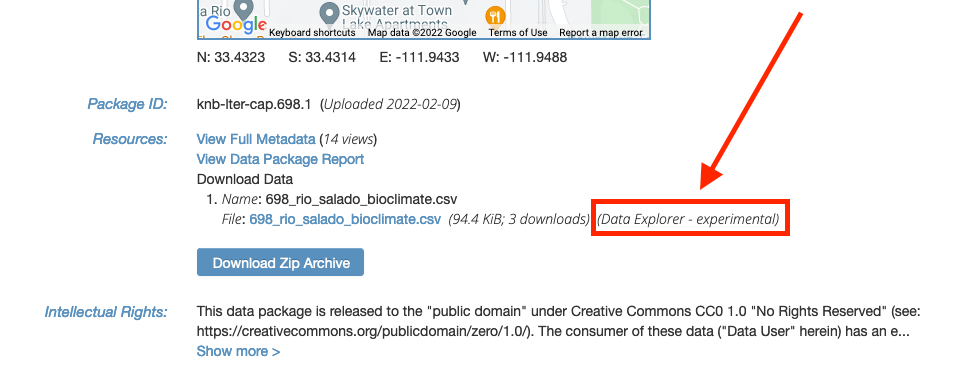
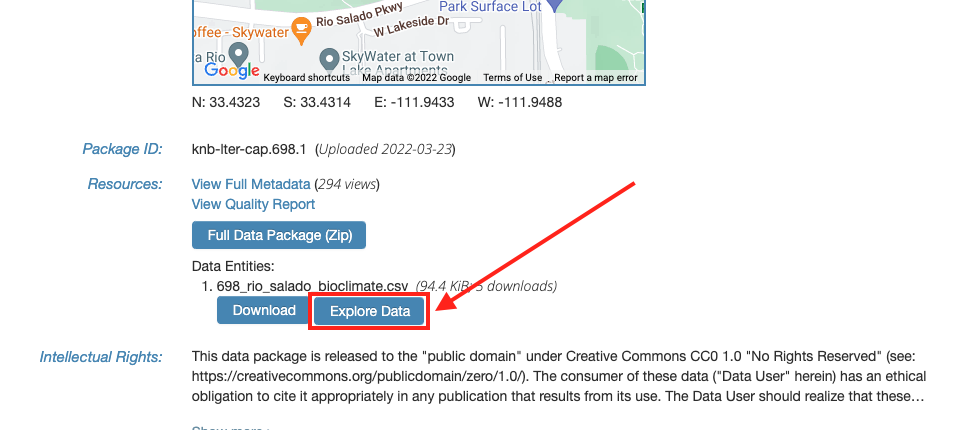
Build web-x

diff --git a/templates/resources/data-exploration.html b/templates/resources/data-exploration.html
@@ -3,24 +3,7 @@
 <div class="container">
 <aside class="sidebar-aside"><div class="bd-toc mt-4 mb-5 my-md-0 ps-xl-3 mb-lg-5 text-muted sticky-top" style="padding-top: 60; padding-right: 15; padding-left: 0;">
 <a class="d-block h6 my-2 pb-2 text-muted" href="#"><span class="fs-5 fw-semibold">Data Exploration</span></a><ul class="btn-toggle-nav">
-<li><a class="link-dark rounded text-muted" href="#data-explorer-dex">Data eXplorer (DeX)</a><ul class="fw-normal">
-<li><a class="link-dark rounded text-muted" href="#profile">Profile</a><ul class="fw-normal">
-<li><a class="link-dark rounded text-muted" href="#overview">Overview</a></li>
-<li><a class="link-dark rounded text-muted" href="#sample">Sample</a></li>
-<li><a class="link-dark rounded text-muted" href="#variables">Variables</a></li>
-</ul>
-</li>
-<li><a class="link-dark rounded text-muted" href="#subset">Subset</a><ul class="fw-normal">
-<li><a class="link-dark rounded text-muted" href="#query">Query</a></li>
-<li><a class="link-dark rounded text-muted" href="#time-period">Time period</a></li>
-<li><a class="link-dark rounded text-muted" href="#row-index">Row index</a></li>
-<li><a class="link-dark rounded text-muted" href="#category">Category</a></li>
-</ul>
-</li>
-<li><a class="link-dark rounded text-muted" href="#plot">Plot</a></li>
-<li><a class="link-dark rounded text-muted" href="#eml">EML</a></li>
-</ul>
-</li>
+<li><a class="link-dark rounded text-muted" href="#data-explorer-dex">Data eXplorer (DeX)</a></li>
 <li><a class="link-dark rounded text-muted" href="#data-download-scripts">Data download scripts</a></li>
 <li><a class="link-dark rounded text-muted" href="#datapie">datapie</a></li>
 </ul>
@@ -30,47 +13,17 @@
 <p>While data package metadata, such as the <a href="/resources/data-package-pages#data-entities">Data Entities</a> section in the full metadata page, provide concise explanations of data attributes, summary and visualization tools can provide a quick and easy interactive view into the actual data values. EDI offers three options for data exploration: Data eXplorer, Data Download Scripts, and datapie.</p>
 
 <h2 id="data-explorer-dex">Data eXplorer (DeX)</h2>
-<p>The EDI <a href="http://dex.edirepository.org" rel="noopener noreferrer" target="_blank">Data Explorer (DeX)</a> is a web browser application offering summary information, subsetting, and plotting features for data packages containing tabular data files. DeX is a great tool for making a preliminary assessment about fitness for use. Click the <strong>Data Explorer</strong> link next to a data object from the <strong>Resources</strong> section of a data package landing page (currently only available in the <a href="/resources/repository-environments#staging">staging environment</a> of the Data Portal).</p>
+<p>The EDI <a href="http://dex.edirepository.org" rel="noopener noreferrer" target="_blank">Data Explorer (DeX)</a> is a web browser application offering summary information, subsetting, and plotting features for data packages containing tabular data files. DeX is a great tool for making a preliminary assessment about fitness for use. Click the <strong>Data Explorer</strong> link next to a data object from the <strong>Resources</strong> section of a data package landing page.</p>
 <p><img class="screen-shot" src="/static/images/dex-in-portal.png" width="95%"/> </p>
 <p>Alternatively, open a table from a data package in DeX by providing the Data Entity URL (currently limited to tabular data). </p>
 <blockquote>
 <p>In order to provide a standard of efficiency while working with limited computing power, DeX currently has a size limit of 50 million cells. Tables with more than 50 million cells will be truncated by row. For example, a table with 10 columns and 5,000,010 rows will only import the first 5,000,000 rows, leaving off the last 10 rows. The DeX profile, as well as any subsets or plots, will be generated from the truncated table and will not necessarily be representative of the original table.</p>
 </blockquote>
-<h3 id="profile">Profile</h3>
-<p>The <strong>Profile</strong> tab provides data table overview information, a sample of the first and last rows in the table, and summary information for every variable in the table.</p>
-<h4 id="overview">Overview</h4>
-<p>A breakdown of dataset statistics (size, missing value and duplicate row counts, etc.) and variable types (number of datetime, numerical, unique, and other variable types). This section also includes notes for individual variables and information about the profile report.</p>
-<h4 id="sample">Sample</h4>
-<p>This section displays the first and last ten rows of the data table, a row index, and column names.</p>
-<h4 id="variables">Variables</h4>
-<p>For every variable in the table, this section displays a miniature summary page complete with counts of missing and duplicate rows, minimum and maximum values, and a frequency plot for the variable.</p>
-<h3 id="subset">Subset</h3>
-<p>The Subset tab allows users to filter and download data by a query, time period, row index, category, or by simply selecting the columns of interest with checkboxes.</p>
-<h4 id="query">Query</h4>
-<p>Users can type a query to filter data. The query syntax is based on the Python Pandas' query method.</p>
-<p>Rows can be filtered by values in character columns using the <code>==</code> and <code>!=</code> operators:</p>
-<p><img class="screen-shot" src="/static/images/numexpr1.png" width="100%"/> </p>
-<p>Rows can also be filtered by values in numeric columns using the <code>&gt;</code>, <code>&lt;</code>, <code>&gt;=</code>, <code>&lt;=</code>, <code>!=</code> and <code>==</code> operators. Use backticks to select columns that have spaces or special characters in their name:</p>
-<p><img class="screen-shot" src="/static/images/numexpr2.png" width="100%"/> </p>
-<p>Rows can be filtered using comparisons between different columns. Multiple logical queries can be combined with the <code>&amp;</code> and <code>|</code> symbols to create advanced logical queries:</p>
-<p><img class="screen-shot" src="/static/images/numexpr6.png" width="100%"/> </p>
-<p>Individual rows can be selected by their index using square brackets:</p>
-<p><img class="screen-shot" src="/static/images/numexpr3.png" width="100%"/> </p>
-<p>Rows where the values from two columns are equal (or not equal) may also be filtered by comparing the two columns: <code>col_1 == col_2</code> or <code>col_1 != col_2</code></p>
-<p><img class="screen-shot" src="/static/images/numexpr7.png" width="100%"/> </p>
-<p>Rows where the values from one column are present (or not present) anywhere in another column may be filtered by using the "in" (or "not in") operator with the two columns: <code>col_1 in col_2</code> or <code>col_1 not in col_2</code></p>
-<p><img class="screen-shot" src="/static/images/numexpr8.png" width="100%"/> </p>
-<p>For details, refer to the Pandas' <a href="https://pandas.pydata.org/docs/user_guide/indexing.html#the-query-method" rel="noopener noreferrer" target="_blank">general guide to querying data</a> and the <a href="https://pandas.pydata.org/docs/reference/api/pandas.DataFrame.query.html" rel="noopener noreferrer" target="_blank">pandas.DataFrame.query</a> API documentation specifically.</p>
-<h4 id="time-period">Time period</h4>
-<p>Users can filter by time period by selecting a <strong>Date</strong> column and entering a start and end date.</p>
-<h4 id="row-index">Row index</h4>
-<p>Users can filter by entering the start and end row index.</p>
-<h4 id="category">Category</h4>
-<p>For tables with categorical data columns declared in the EML, users can filter by specific categories within a given column.</p>
-<h3 id="plot">Plot</h3>
-<p>The <strong>Plot</strong> tab allows users to create scatter plots for the table by selecting an independent and one or more dependent variables.</p>
-<h3 id="eml">EML</h3>
-<p>This tab takes you back to the data package landing page.</p>
+<div class="p-2">
+<div class="w-50 ratio ratio-16x9">
+<iframe allowfullscreen="" src="https://youtube.com/embed/4ZZaLQ72GPc" title="YouTube video"></iframe>
+</div>
+</div>
 <h2 id="data-download-scripts">Data download scripts</h2>
 <p><a href="/resources/accessing-data#data-import-scripts">Data download scripts</a>, available in the <strong>Code Generation</strong> section of the data package landing page, read data directly from the EDI Repository into common programming language workspaces. This service provides full control over data manipulation and statistical exploration.</p>
 <h2 id="datapie">datapie</h2>

diff --git a/templates/resources/information-manager-quickstart.html b/templates/resources/information-manager-quickstart.html
@@ -31,7 +31,7 @@
 <li><strong>Newsletter</strong> - Delivered every other month providing updates to EDI services, community discussions, data stories, and opportunities. <a href="https://environmentaldatainitiative.us14.list-manage.com/subscribe?u=c258a774cbd4d34290410d1ea&amp;id=da346b264c" rel="noopener noreferrer" target="_blank">Subscribe to the newsletter</a>.</li>
 <li><strong>Twitter</strong> - Highlights and engages with posts from the EDI community and beyond. Newsletter articles are rebroadcast here. <a href="https://twitter.com/edigotdata" rel="noopener noreferrer" target="_blank">Visit the EDI Twitter Page</a>.</li>
 <li><strong>Slack</strong> - Great for quick questions and dialogue (<a href="/support/contact-us">contact EDI </a> for an invitation).</li>
-<li><strong>Office hours</strong> - An ongoing Zoom every Wednesday at 3-4pm ET, 2-3pm CT, 1-2pm MT, 12-1pm PT.</li>
+<li><strong>Office hours</strong> - An ongoing <a href="https://uwmadison.zoom.us/j/98834296572?pwd=NHZlTmtkTWg3OXBLSzRrMTJyL3NmUT09" rel="noopener noreferrer" target="_blank">Zoom</a> every Wednesday at 3-4pm ET, 2-3pm CT, 1-2pm MT, 12-1pm PT.</li>
 <li>Email - Contact us via email at <a href="mailto:info@edirepository.org">info@edirepository.org</a></li>
 </ul>
 <h2 id="resources">Resources</h2>

diff --git a/templates/support/contact-us.html b/templates/support/contact-us.html
@@ -9,7 +9,7 @@
 <li>For technical support: <a href="mailto:support@edirepository.org">support@edirepository.org</a></li>
 <li>Join us on Slack for instant communication: Request invitation to <a href="mailto:info@edirepository.org">info@edirepository.org</a></li>
 <li>Receive regular updates on new EDI features, services, webinars, and opportunities by subscribing to our (low traffic) <a href="https://environmentaldatainitiative.us14.list-manage.com/subscribe?u=c258a774cbd4d34290410d1ea&amp;id=da346b264c" rel="noopener noreferrer" target="_blank">newsletter</a></li>
-<li>Stop by our weekly virtual Office Hours with your data management questions and challenges to discuss with our data curation team, Wednesdays at 3-4pm ET, 2-3pm CT, 1-2pm MT, 12-1pm PT. Zoom: <a href="https://ucsb.zoom.us/j/966777885" rel="noopener noreferrer" target="_blank">https://ucsb.zoom.us/j/966777885</a></li>
+<li>Stop by our weekly virtual Office Hours with your data management questions and challenges to discuss with our data curation team, Wednesdays at 3-4pm ET, 2-3pm CT, 1-2pm MT, 12-1pm PT on <a href="https://uwmadison.zoom.us/j/98834296572?pwd=NHZlTmtkTWg3OXBLSzRrMTJyL3NmUT09" rel="noopener noreferrer" target="_blank">Zoom</a></li>
 </ul>
 </main>
 </div>

diff --git a/templates/webinars/webinars-20221018.00.html b/templates/webinars/webinars-20221018.00.html
@@ -1,0 +1,23 @@
+<div metal:use-macro="load: ../shared/layout.html">
+<div metal:fill-slot="content" tal:omit-tag="True">
+<div class="container">
+<main class="basic-inner">
+<h1>Webinar</h1>
+<h2>An indepth look at EDI's Data Explorer (DEX)</h2>
+<p>October 18, 2022</p>
+<h3>Description</h3>
+<p>EDI DEX is a new tool that allows you to explore tabular data directly from the EDI Data Repository. DEX currently supports data profiling, subsetting, and plotting. DEX is available on all three PASTA tiers (development, staging, and production). It is accessed from the Data Package landing page using the “Explore Data” button and is available for files that are recognized as containing tabular data. This webinar will present an overview of the DEX architecture and demonstrate how DEX works on actual data.</p>
+<h3>Speakers</h3>
+<p>Roger Dahl (DEX's lead developer)</p>
+<p>Mark Servilla (PASTA lead developer)</p>
+<h3>Recording</h3>
+<div class="p-2">
+<div class="w-50 ratio ratio-16x9">
+<iframe allowfullscreen="" src="https://youtube.com/embed/4ZZaLQ72GPc" title="YouTube video"></iframe>
+</div>
+</div>
+<!-- Webinars -->
+</main>
+</div>
+</div>
+</div>

diff --git a/CONTRIBUTING.html b/CONTRIBUTING.html
@@ -184,5 +184,32 @@ page will be used.--&gt;
 ### [All featured data contributions](/featured/featured-grid)
 
 </code></pre>
+<h2>Create a Webinar article</h2>
+<p>To create a webinar article:
+1. Copy the template below and paste into a new file in the <code>/webinars</code> directory.
+2. The file name should follow <code>webinars-YYYYMMDD.XX</code>, where <code>YYYYMMDD</code> is the date the article was created, <code>XX</code> is the news article created on that date (use <code>00</code> if only one article was published on that day).
+3. Update the TITLE, DATE, AUTHOR, and CONTENT placeholders.
+4. Commit changes and push to the content-x GitHub.
+5. Notify the website team that new content has been added and they will integrate your work into the website.</p>
+<pre><code># Webinar
+
+## ADD TITLE HERE
+
+ADD DATE HERE (e.g.October 18, 2022)
+
+### Description
+
+ADD CONTENT HERE
+
+### Speakers
+
+ADD SPEAKERS HERE
+
+### Recording
+
+EMBED YOUTUBE VIDEO RECORDING HERE
+
+&lt;!-- Webinars --&gt;
+</code></pre>
 </main>
 </div>

diff --git a/templates/news/news-20221101.00.html b/templates/news/news-20221101.00.html
@@ -1,0 +1,16 @@
+<div class="container">
+<main class="basic-inner">
+<h1>News</h1>
+<h2>An indepth look at EDI's Data Explorer (DEX)</h2>
+<p>November 1, 2022</p>
+<p>Colin Smith</p>
+<h3>Description</h3>
+<p>Last month’s webinar is now on YouTube and provides an overview of the DEX architecture and a demonstration of how DEX works on actual data. The webinar was presented by Roger Dahl, DEX's lead developer, and Mark Servilla.</p>
+<div class="p-2">
+<div class="w-50 ratio ratio-16x9">
+<iframe allowfullscreen="" src="https://youtube.com/embed/4ZZaLQ72GPc" title="YouTube video"></iframe>
+</div>
+</div>
+<!-- News -->
+</main>
+</div>
